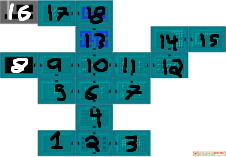
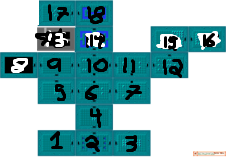
Add Arrow Sprite

diff --git a/Sprintfinity3902/Sprites/Items/ArrowHorizontalSprite.cs b/Sprintfinity3902/Sprites/Items/ArrowHorizontalSprite.cs
@@ -1,0 +1,23 @@
+using Microsoft.Xna.Framework.Graphics;
+
+namespace Sprintfinity3902.Sprites.Items
+{ 
+    public class ArrowHorizontalSprite : AbstractSprite
+    { 
+        public Texture2D Texture { get; set; }
+
+        private const int ARROW_POS_X = 10;
+        private const int ARROW_POS_Y = 190;
+        private const int ARROW_WIDTH = 16;
+        private const int ARROW_HEIGHT = 5;
+
+        public ArrowHorizontalSprite(Texture2D texture)
+        {
+            SpriteFrame Sprite1 = new SpriteFrame(texture, ARROW_POS_X, ARROW_POS_Y, ARROW_WIDTH, ARROW_HEIGHT);
+            Texture = texture;
+
+            Animation = new Animation();
+            Animation.AddFrame(Sprite1, 0);
+        }
+    }
+}

diff --git a/Sprintfinity3902/Sprites/Items/ArrowVerticalSprite.cs b/Sprintfinity3902/Sprites/Items/ArrowVerticalSprite.cs
@@ -1,0 +1,23 @@
+using Microsoft.Xna.Framework.Graphics;
+
+namespace Sprintfinity3902.Sprites.Items
+{ 
+    public class ArrowVerticalSprite : AbstractSprite
+    { 
+        public Texture2D Texture { get; set; }
+
+        private const int ARROW_POS_X = 3;
+        private const int ARROW_POS_Y = 185;
+        private const int ARROW_WIDTH = 5;
+        private const int ARROW_HEIGHT = 16;
+
+        public ArrowVerticalSprite(Texture2D texture)
+        {
+            SpriteFrame Sprite1 = new SpriteFrame(texture, ARROW_POS_X, ARROW_POS_Y, ARROW_WIDTH, ARROW_HEIGHT);
+            Texture = texture;
+
+            Animation = new Animation();
+            Animation.AddFrame(Sprite1, 0);
+        }
+    }
+}

diff --git a/Sprintfinity3902/SpriteFactories/ItemSpriteFactory.cs b/Sprintfinity3902/SpriteFactories/ItemSpriteFactory.cs
@@ -50,6 +50,16 @@ namespace Sprintfinity3902.SpriteFactories
             return new MovingSwordVerticalSprite(linkItemSpriteSheet);
         }
 
+        public ISprite CreateArrowHorizontalItem()
+        {
+            return new ArrowHorizontalSprite(linkItemSpriteSheet);
+        }
+
+        public ISprite CreateArrowVerticalItem()
+        {
+            return new ArrowVerticalSprite(linkItemSpriteSheet);
+        }
+
         public ISprite CreateFireAttack()
         {
             return new FireAttackSprite(bossSpriteSheet);
